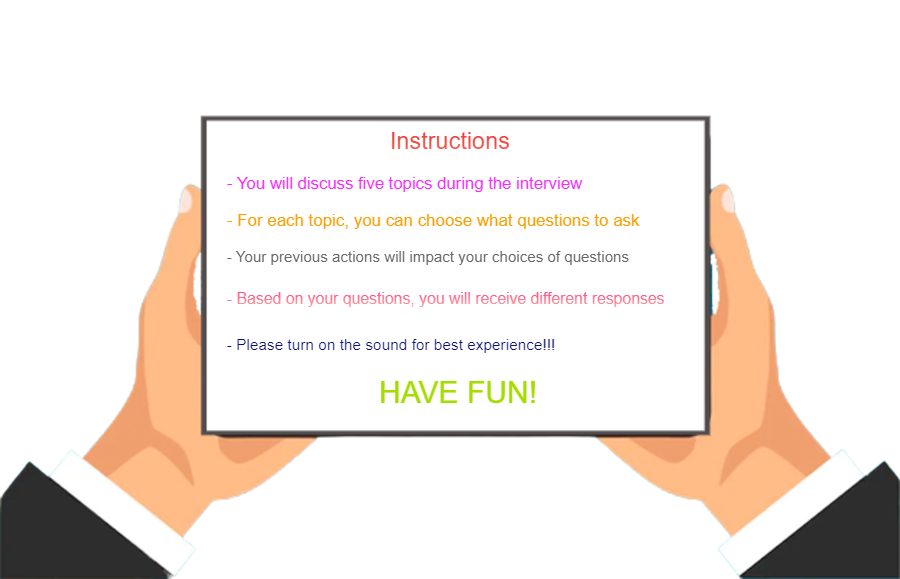
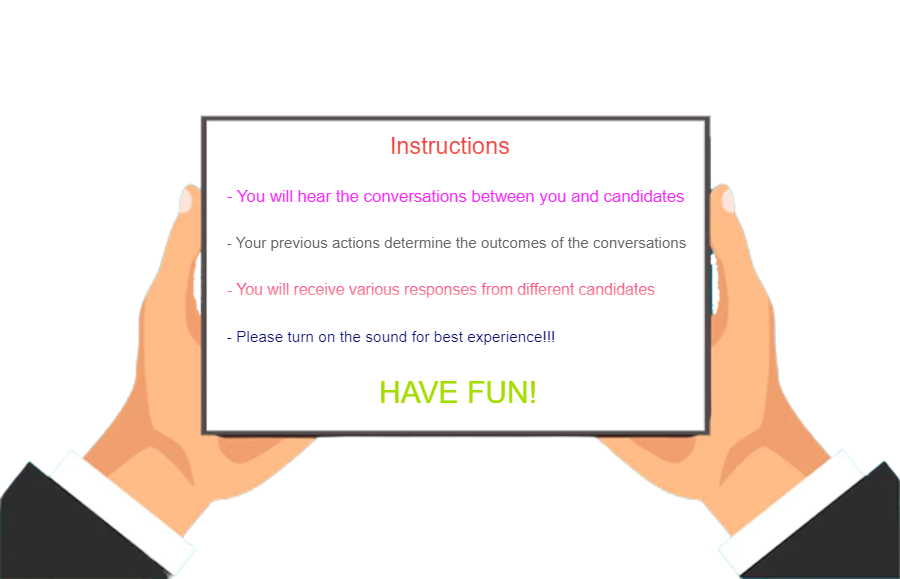
add credit screen. add credit and score buttons. also change the instruction screen for the interviews

Changed region(s): [[0.2489, 0.3109, 0.7778, 0.5285], [0.2489, 0.5596, 0.6222, 0.6218], [0.4356, 0.2176, 0.56, 0.2798]]

diff --git a/mainGame.py b/mainGame.py
@@ -76,6 +76,8 @@ start_button = pygame.image.load("data/start_button.png").convert_alpha()
 guide_button = pygame.image.load("data/guide_button.png").convert_alpha()
 setting_button = pygame.image.load("data/setting_button.png").convert_alpha()
 load_button = pygame.image.load("data/load_button.png").convert_alpha()
+credit_button = pygame.image.load("data/credit.png").convert_alpha()
+score_button = pygame.image.load("data/score.png").convert_alpha()
 info = pygame.font.Font("data/arial.TTF",15)
 name = info.render("Patrick",False,"White")
 title_start = pygame.font.Font("data/animation.TTF",40)
@@ -89,6 +91,13 @@ guide_3 = guide_font.render("-You will hire any interns for 3 months and any ful
 guide_4 = guide_font.render("-You have to complete the whole recruitment process for each position before hiring for the next one.",True,"Red")
 guide_5 = guide_font.render("-The number of resumes you receive depends on your choice for job posting. You have 10 seconds to screen each resume. Watch out for the timer!",True,"Red")
 guide_6 = guide_font.render("-Every choice you make during each phase will result in a different outcome during the process. Be careful with your decisions!",True,"Red")
+title_cre_font = pygame.font.Font("data/animation.TTF",45)
+title_cre = title_cre_font.render("Credits",True,"Red")
+cre_font = pygame.font.Font("data/arial.TTF",20)
+cre_1 = cre_font.render("Game & Sound Development: Patrick Duong",True,"Red")
+cre_2 = cre_font.render("Graphics: Patrick Duong",True,"Red")
+cre_3 = cre_font.render("Voice: Daisy Duong, Patrick Duong",True,"Red")
+cre_4 = cre_font.render("Game Content: Daisy Duong, Patrick Duong",True,"Red")
 hiring = pygame.image.load("data/hiring.png").convert_alpha()
 recruiter_guide = recruiter_font.render("Recruiter Training",True,"Red") 
 
@@ -234,6 +243,7 @@ game_run = True
 music_active = False
 phase = 0   #phase of recruitment
 guide_activate = False
+credit_activate = False
 fast_forward_transition = False
 
 #control panel phase 1
@@ -350,9 +360,11 @@ while game_run:    #game_loop
         setting = settings(screen,intro_song)
         loads = game_loading(screen,click_sound)
         screen.blit(start_image,(0,0))
-        start_button_rect = screen.blit(start_button,(390,80))
-        guide_button_rect = screen.blit(guide_button,(240,80))
+        start_button_rect = screen.blit(start_button,(280,80))
+        guide_button_rect = screen.blit(guide_button,(150,80))
+        credit_button_rect = screen.blit(credit_button,(410,80))
         load_button_rect = screen.blit(load_button,(540,80))
+        score_button_rect = screen.blit(score_button,(670,80))
         setting_button_rect = screen.blit(setting_button,(850,450))
         
         screen.blit(name,(325,470))
@@ -387,6 +399,11 @@ while game_run:    #game_loop
                     pygame.mixer.Channel(0).set_volume(setting.get_volume())
                     pygame.mixer.Channel(0).play(click_sound)
                     setting.run_setting()   
+                elif credit_button_rect.collidepoint(event.pos):
+                    pygame.mixer.Channel(0).set_volume(setting.get_volume())
+                    pygame.mixer.Channel(0).play(click_sound)
+                    start_screen = False
+                    credit_activate = True
                 elif load_button_rect.collidepoint(event.pos):
                     pygame.mixer.Channel(0).set_volume(setting.get_volume())
                     pygame.mixer.Channel(0).play(click_sound)
@@ -399,7 +416,28 @@ while game_run:    #game_loop
                         budget = loads.get_initial_budget()
                         start_screen = False
                         game_activate = False
-                                            
+                        
+    while credit_activate:
+        screen.fill("#48dcff")
+        screen.blit(title_cre,(330,30))
+        screen.blit(cre_1,(80,140))
+        screen.blit(cre_2,(80,200))
+        screen.blit(cre_3,(80,260))
+        screen.blit(cre_4,(80,320))
+        back_guide_rect = screen.blit(back_guide,(10,10))
+        pygame.display.update()
+        
+        for event in pygame.event.get():
+            if event.type == pygame.QUIT:
+                pygame.quit()    #quit game
+                sys.exit()     
+            if event.type == pygame.MOUSEBUTTONDOWN:        
+                if back_guide_rect.collidepoint(event.pos):
+                    pygame.mixer.Channel(0).set_volume(setting.get_volume())
+                    pygame.mixer.Channel(0).play(click_sound)
+                    credit_activate = False
+                    start_screen = True
+                                                  
     while guide_activate: 
         screen.fill("#48dcff")
         screen.blit(recruiter_guide,(100,50))
